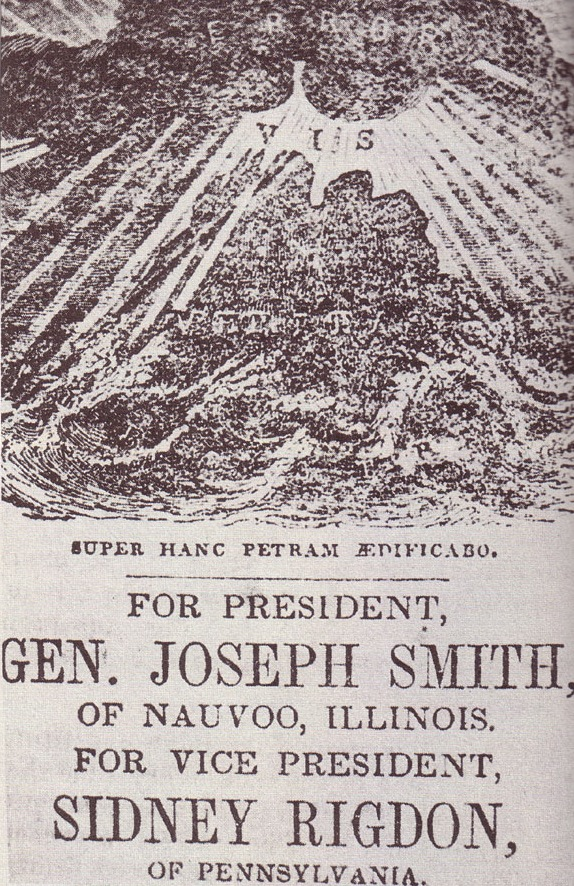
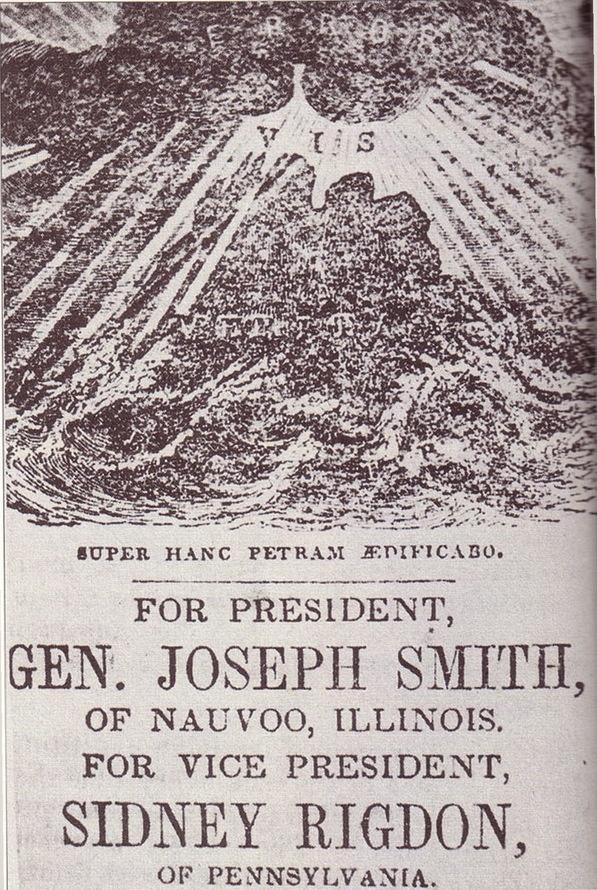
Add files via upload

diff --git a/chapter-15.html b/chapter-15.html
@@ -659,7 +659,7 @@ class Component extends DCLogic {
       printing: img("press-destruction-1833", "1800/1305", "720px", "Figure 15.2 · The destruction of the Mormon printing office at Independence, Missouri, July 1833, painted by C. C. A. Christensen under the direction of Charles B. Hancock, circa 1882–1884, and shown here in a Rinehart & Co. photograph of the painting.", "Wikimedia Commons (public domain)"),
       boggs: img("boggs-hawkins-letter", "1586/1993", "520px", "Figure 15.3 · Governor Lilburn W. Boggs to Col. Joseph Hawkins, October 26, 1838, ordering two thousand militia raised on reports that Latter-day Saints had burned Gallatin and driven settlers from Daviess County. Boggs issued the Extermination Order the next day.", "L. Tom Perry Special Collections, Brigham Young University, Joseph Hawkins papers, Vault MSS 724 (public domain)"),
       order: img("extermination-order-1838", "884/1391", "560px", "Figure 15.4 · The Extermination Order: Governor Lilburn W. Boggs to Maj. Gen. John B. Clark, October 27, 1838 (first of two pages). The sentence ordering that the Latter-day Saints be “exterminated or driven from the State” falls in the middle of the page.", "Missouri State Archives, Governors’ Records (public domain)"),
-      ticket: img("smith-rigdon-ticket-1844", "574/886", "420px", "Figure 15.6 · The head of the 1844 ticket: Joseph Smith “of Nauvoo, Illinois” for president and Sidney Rigdon for vice president, above the motto Super hanc petram aedificabo, “upon this rock I will build.” Reproduced from a printed campaign pamphlet.", "Wikimedia Commons (public domain)"),
+      ticket: img("smith-rigdon-ticket-1844", "597/890", "420px", "Figure 15.6 · The head of the 1844 ticket: Joseph Smith “of Nauvoo, Illinois” for president and Sidney Rigdon for vice president, above the motto Super hanc petram aedificabo, “upon this rock I will build.” Reproduced from a printed campaign pamphlet.", "Wikimedia Commons (public domain)"),
       temple: img("nauvoo-temple-1890", "1428/2207", "520px", "Figure 15.5 · “Joseph Smith’s Original Temple, Nauvoo, Ills.,” a lithograph copyrighted in 1890 by Chester B. Dike, more than four decades after the building burned in November 1848.", "Library of Congress, Prints and Photographs Division, cph 3a09124 (public domain)"),
       kingmx: img("king-malcolm-x-1964", "1800/1428", "640px", "Figure 15.15 · Martin Luther King Jr. and Malcolm X at the U.S. Capitol on March 26, 1964, after King’s press conference on the Senate debate over the Civil Rights Act. It was the only time the two men met. Photograph by Marion S. Trikosko.", "Marion S. Trikosko, U.S. News & World Report Magazine Photograph Collection, Library of Congress, LC-USZ6-1847 (no known restrictions on publication)"),
       alcohol: img("alcohol-1830", "1400/775", "600px", "Figure 15.7 · By 1830 the average American adult drank more than seven gallons of pure alcohol a year, more than three times today’s figure.", 'Figure by the author'),
